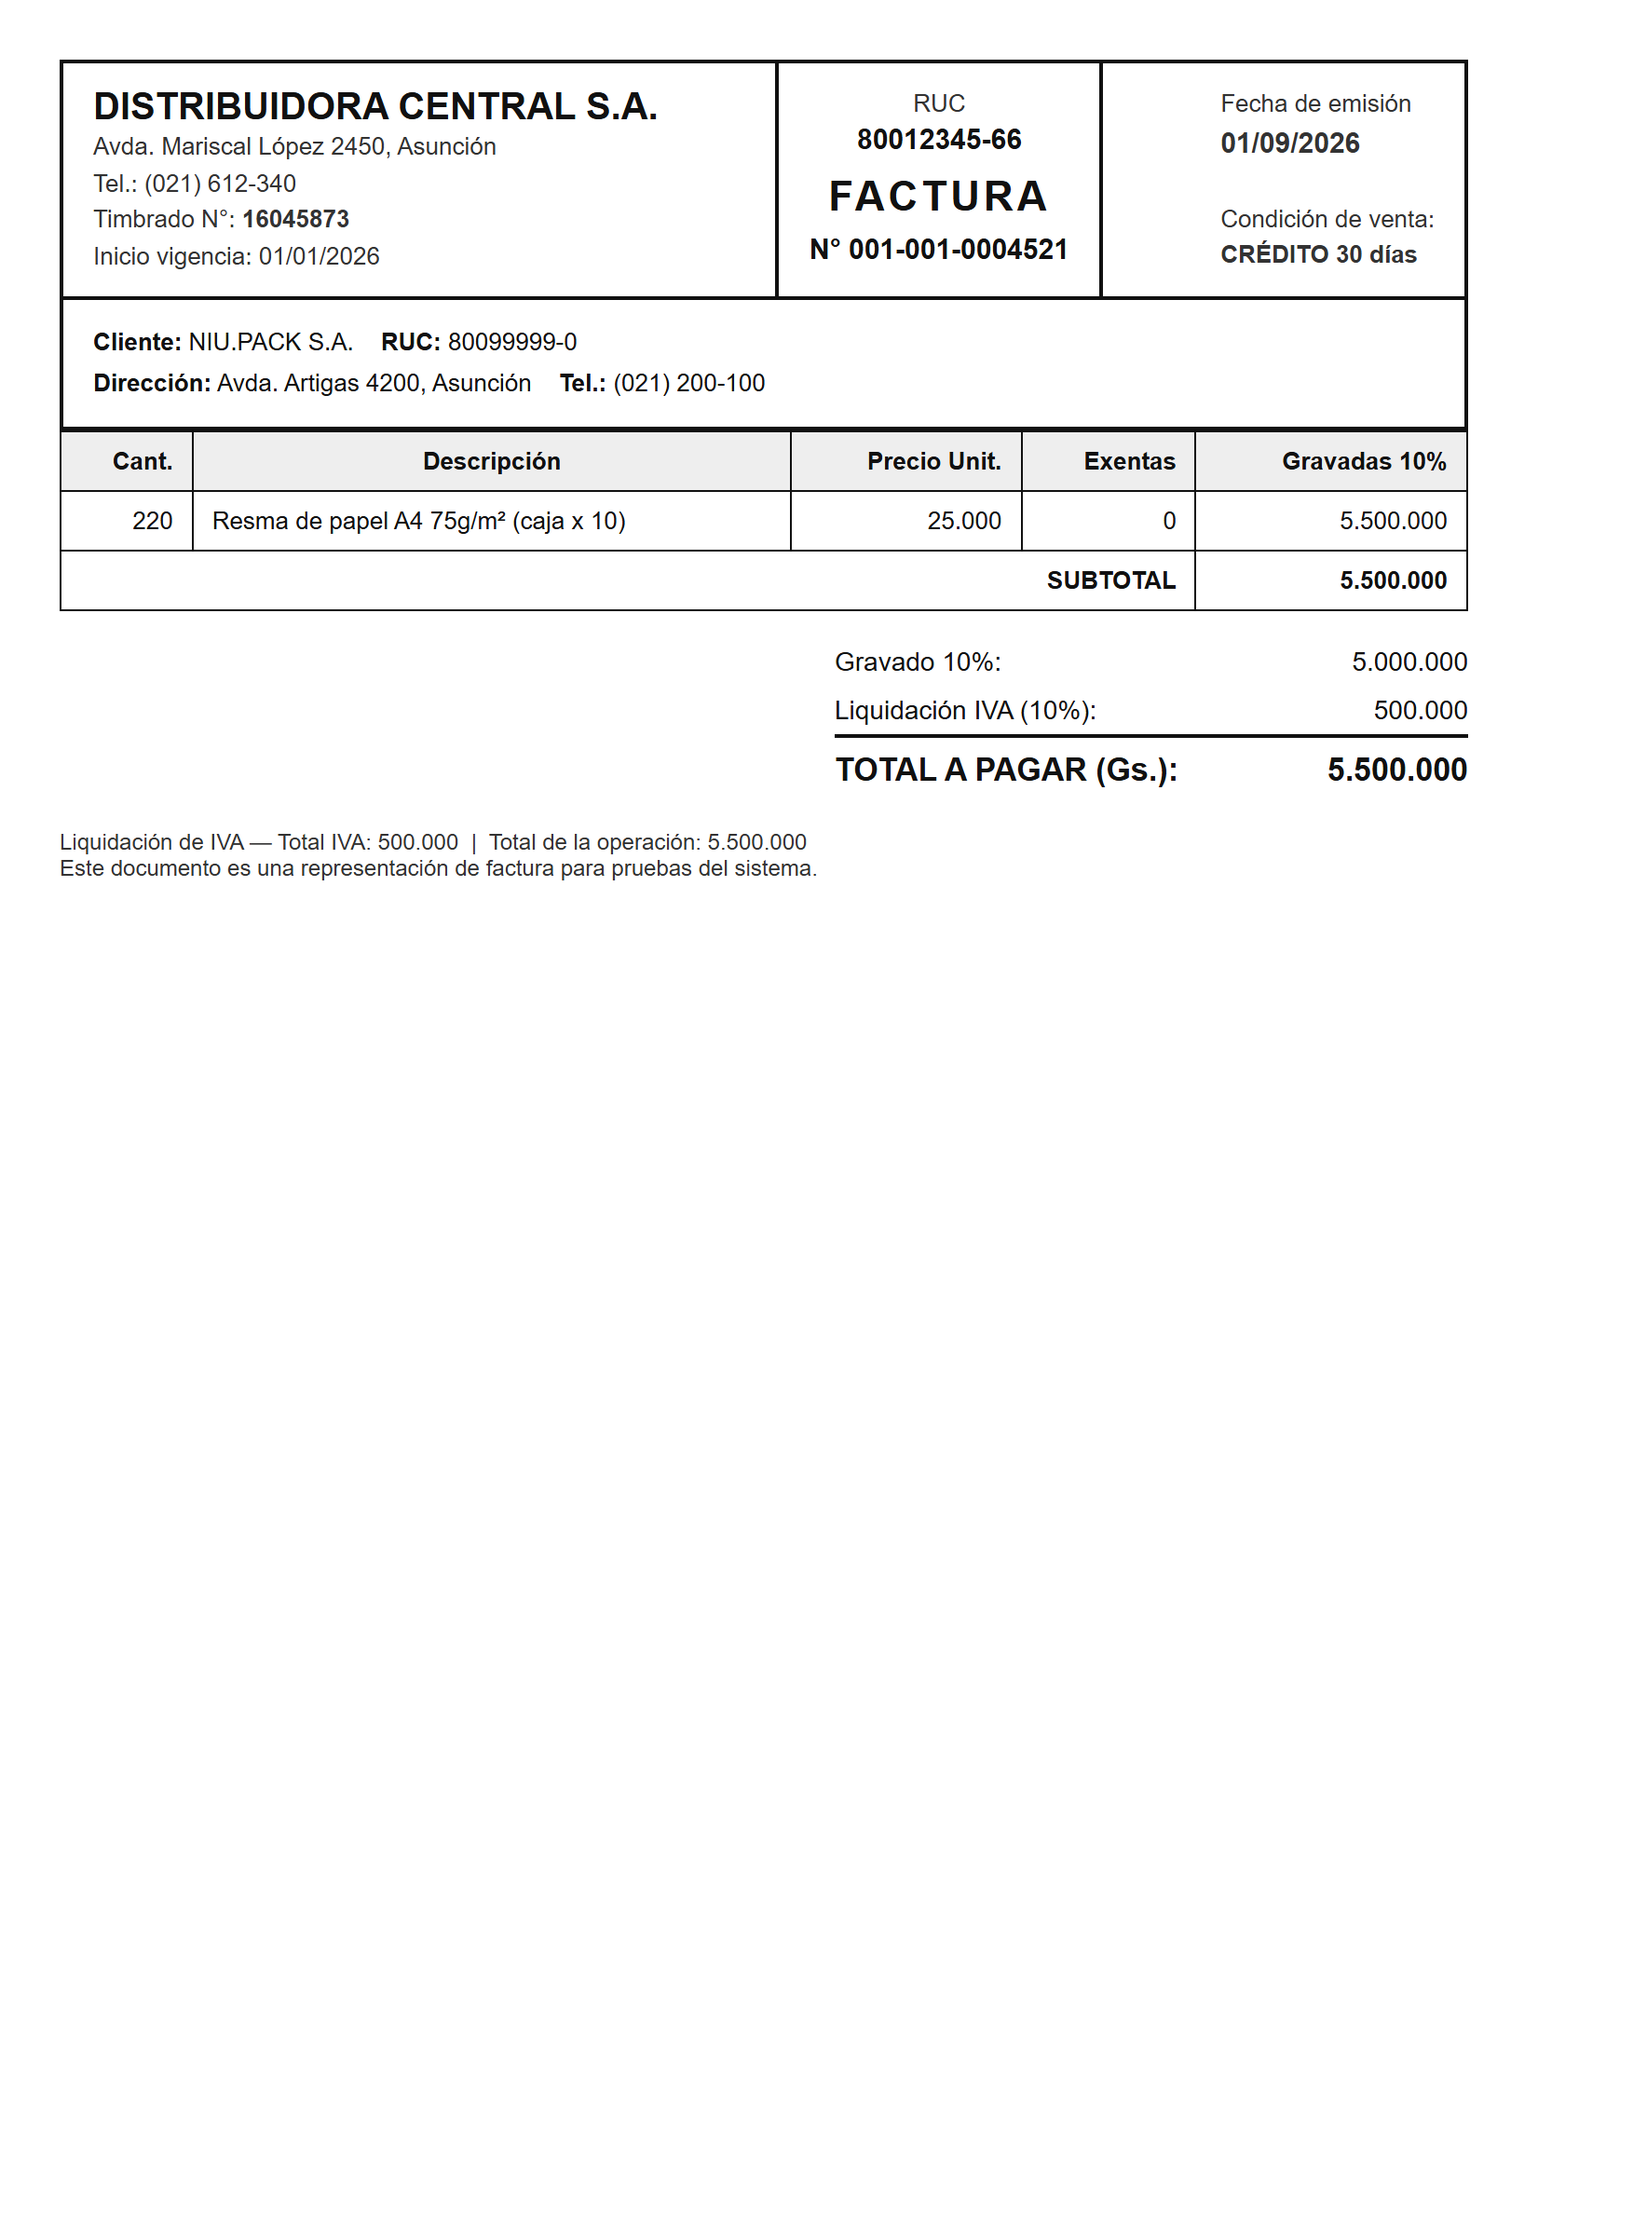
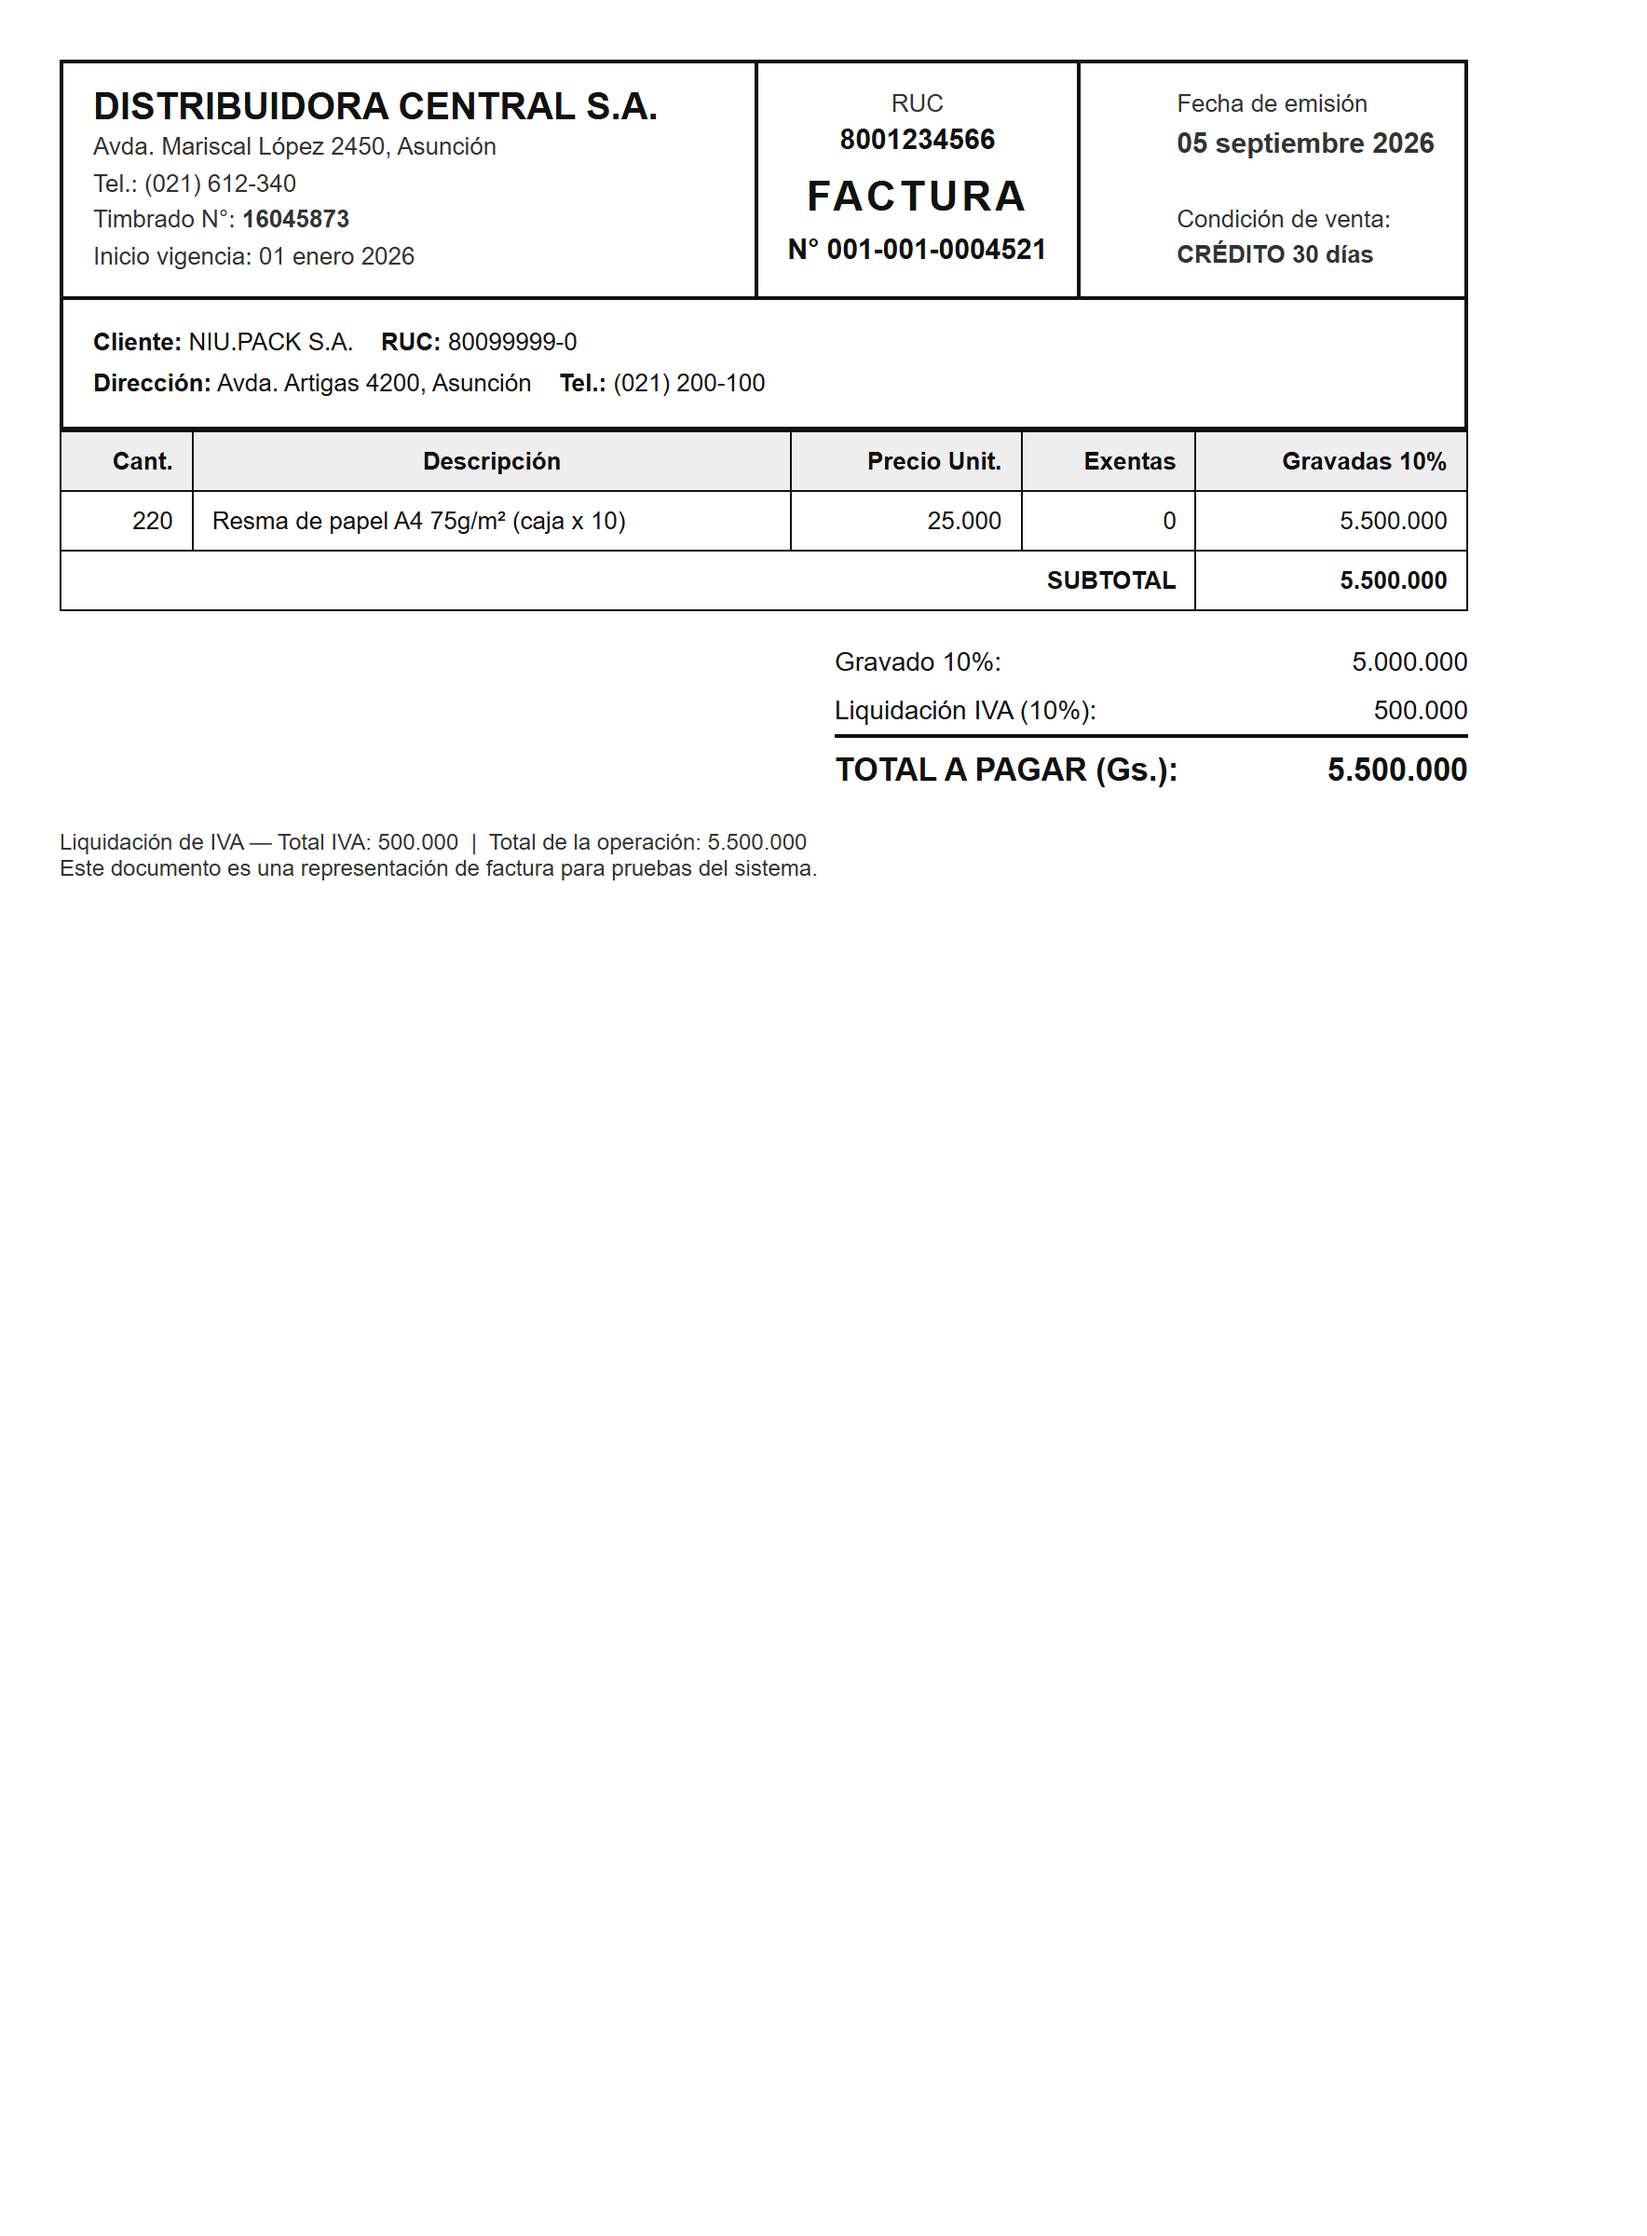
feat: botón "Todas" visible en el filtro de mes de Facturas
Antes había que abrir el calendario para llegar a "Todas las fechas", así
que las facturas de otros meses "desaparecían". Ahora es un toggle fijo al
lado del selector.

También: regenera las facturas mock (facturas mock 2/) con RUC en dígitos
planos y fecha con mes en texto — la corrida anterior fallaba 2 de 5 por
OCR (RUC con un dígito de menos, fecha DD/MM leída como MM/DD).

Changed region(s): [[0.4666, 0.0312, 0.6844, 0.125], [0.7155, 0.0312, 0.871, 0.125], [0.1867, 0.0938, 0.2489, 0.125]]

diff --git a/app/(internal)/invoices/month-filter.tsx b/app/(internal)/invoices/month-filter.tsx
@@ -99,6 +99,18 @@ export function MonthFilter({ month }: { month: string | null }) {
         >
           <ChevronRight size={15} />
         </Button>
+
+        <button
+          type="button"
+          onClick={() => go(selected ? "all" : currentYm)}
+          className={`h-8 rounded-md border px-3 text-[12px] font-medium transition-colors ${
+            !selected
+              ? "border-[var(--primary)] bg-[var(--primary)] text-white"
+              : "border-[var(--border)] bg-[var(--panel-2)] hover:border-[var(--primary)]"
+          }`}
+        >
+          Todas
+        </button>
       </div>
 
       {open ? (
